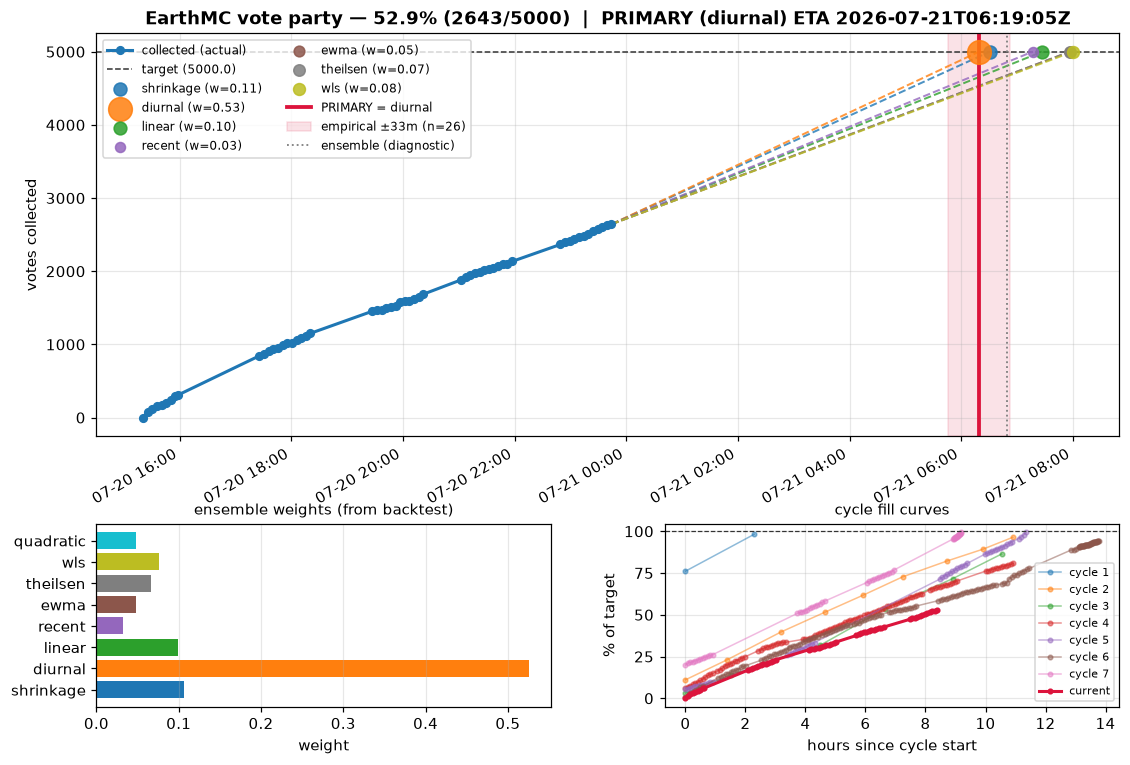
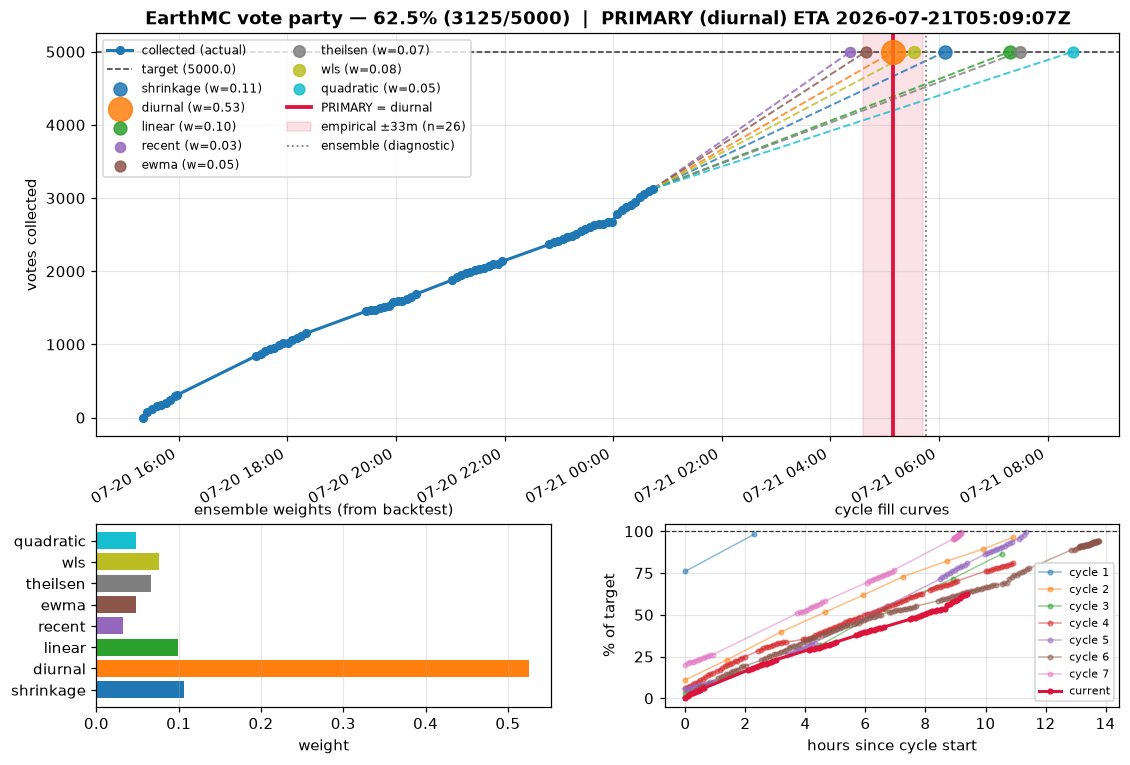
chore: vote party data window ending 2026-07-21T00:44:58Z

diff --git a/data/PREDICTION.md b/data/PREDICTION.md
@@ -1,28 +1,28 @@
 # Vote Party Prediction
 
-_Generated 2026-07-20T23:44:05Z — recomputed every data update._
+_Generated 2026-07-21T00:44:07Z — recomputed every data update._
 
-**Progress:** 2643 / 5000.0 (52.9%) — 2357 remaining
-**Players online:** 467  |  **Cycle started:** 2026-07-20T15:20:20Z  |  **Data points this cycle:** 57
+**Progress:** 3125 / 5000.0 (62.5%) — 1875 remaining
+**Players online:** 451  |  **Cycle started:** 2026-07-20T15:20:20Z  |  **Data points this cycle:** 69
 
 ## 🎯 Prediction (primary model: `diurnal`)
 
-**Vote party fires ≈ `2026-07-21T06:19:05Z`**
+**Vote party fires ≈ `2026-07-21T05:09:07Z`**
 Empirical error at this stage: **±33 min** (n=26 tightly-labeled predictions, spread ±14m). This is a raw error estimate from a tiny sample, **not a calibrated interval** — real uncertainty is likely wider.
 
-_Diagnostic — ensemble ETA (does **not** beat `diurnal` out-of-sample): `2026-07-21T06:49:04Z`._
+_Diagnostic — ensemble ETA (does **not** beat `diurnal` out-of-sample): `2026-07-21T05:45:32Z`._
 
 ## Individual models
 
 | Model | Predicted ETA | Weight | Backtest RMSE |
 |-------|---------------|--------|---------------|
-| diurnal | 2026-07-21T06:19:05Z | 0.526 | 0.72923 |
-| shrinkage | 2026-07-21T06:30:41Z | 0.106 | 1.7846 |
-| linear | 2026-07-21T07:27:13Z | 0.099 | 2.63868 |
-| wls | 2026-07-21T08:00:10Z | 0.076 | 2.51128 |
-| theilsen | 2026-07-21T07:56:48Z | 0.066 | 2.76609 |
-| ewma | 2026-07-21T07:56:45Z | 0.048 | 2.67264 |
-| quadratic | n/a | 0.048 | 2.83173 |
-| recent | 2026-07-21T07:16:44Z | 0.032 | 3.07848 |
+| diurnal | 2026-07-21T05:09:07Z | 0.526 | 0.72923 |
+| shrinkage | 2026-07-21T06:06:46Z | 0.106 | 1.7846 |
+| linear | 2026-07-21T07:18:10Z | 0.099 | 2.63868 |
+| wls | 2026-07-21T05:31:47Z | 0.076 | 2.51128 |
+| theilsen | 2026-07-21T07:29:42Z | 0.066 | 2.76609 |
+| ewma | 2026-07-21T04:39:03Z | 0.048 | 2.67264 |
+| quadratic | 2026-07-21T08:27:55Z | 0.048 | 2.83173 |
+| recent | 2026-07-21T04:21:59Z | 0.032 | 3.07848 |
 
 **Caveats:** weights are unstable at this sample size (dropping one cycle can swing the top weight by ±0.4), so the ensemble is a diagnostic only — the reported prediction is the single best model (`diurnal`), which beats the ensemble out-of-sample. Firing-time labels for loosely-sampled cycles are uncertain by tens of minutes and are excluded from the error estimate. See `prediction_track.png` for the honest out-of-sample record.
